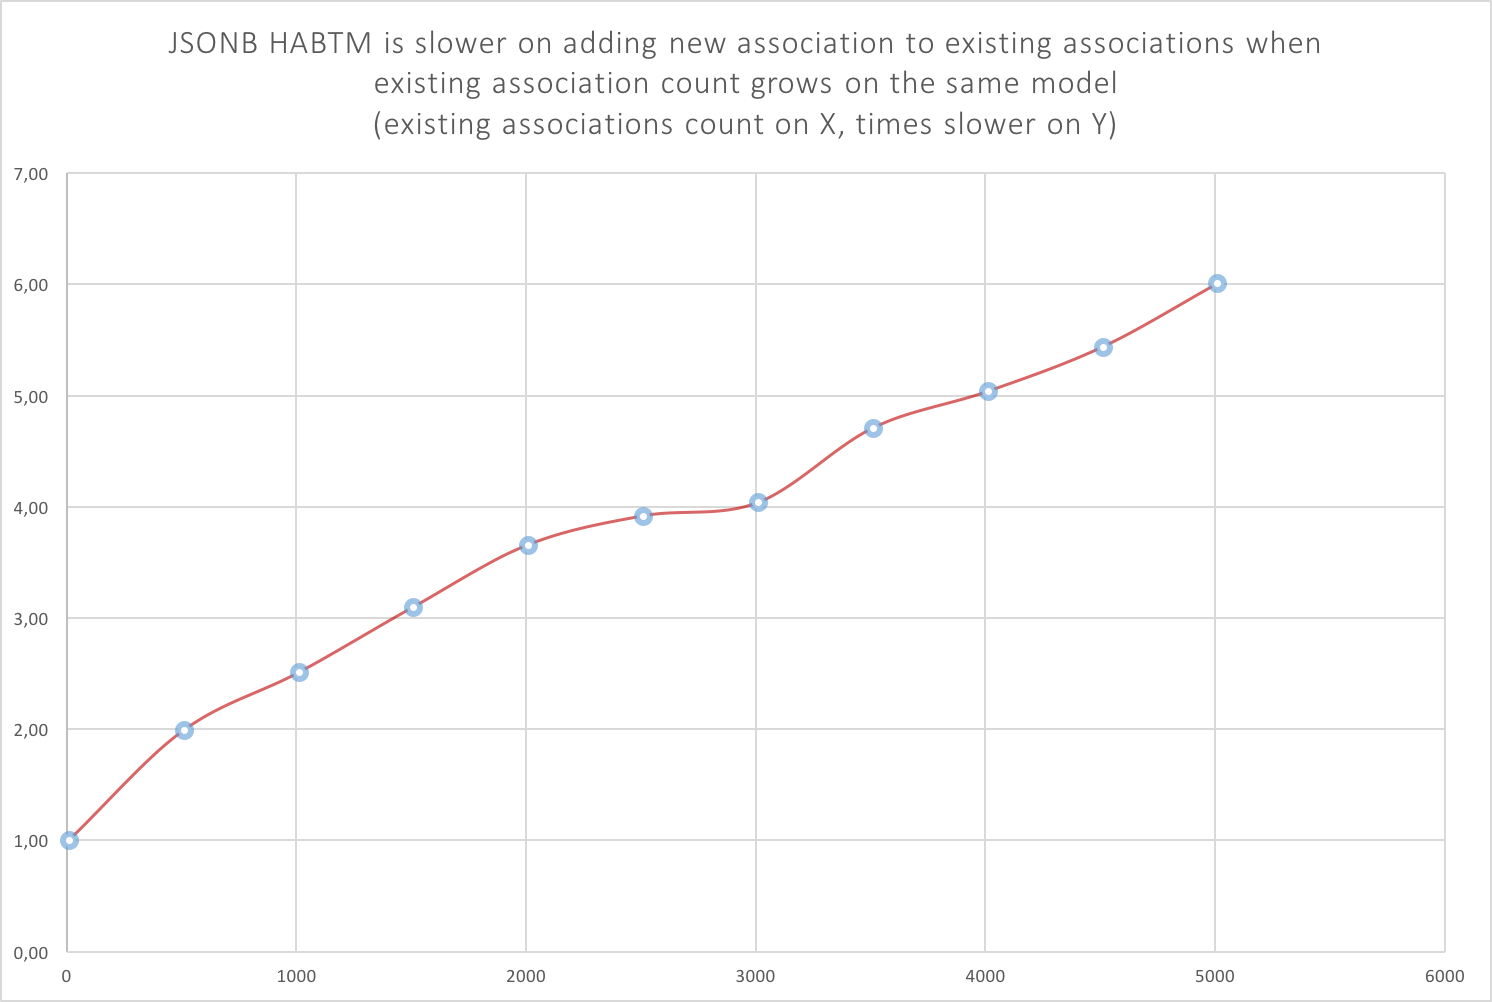
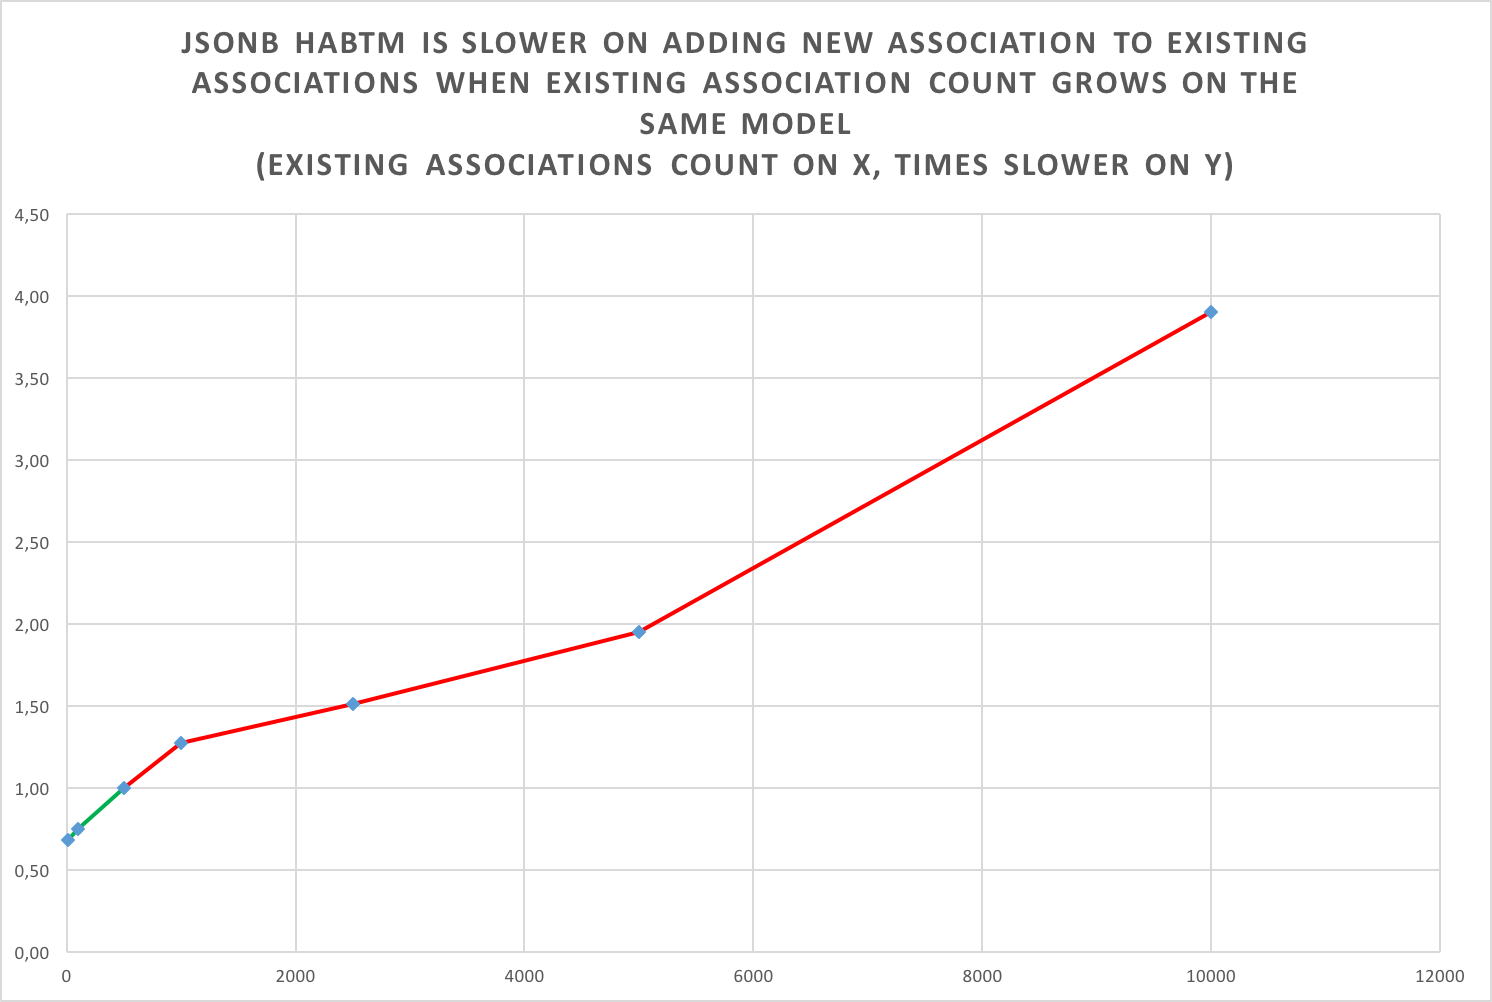
Speed-up adding new models to has-many association scope

diff --git a/lib/activerecord/jsonb/associations/has_many_association.rb b/lib/activerecord/jsonb/associations/has_many_association.rb
@@ -58,19 +58,25 @@ module ActiveRecord
         end
         # rubocop:enable Metrics/AbcSize
 
-        # rubocop:disable Metrics/AbcSize
+        # rubocop:disable Metrics/MethodLength, Metrics/AbcSize
         def insert_record(record, validate = true, raise = false)
-          super.tap do
+          super.tap do |super_result|
             next unless options.key?(:store)
+            next unless super_result
 
             key = "#{record.model_name.singular}_ids"
-            store = owner[options[:store]] || {}
-            store[key] ||= []
-            store[key] << record.id
-            owner.update_column(options[:store], store)
+            jsonb_column = options[:store]
+
+            owner.class.where(
+              owner.class.primary_key => owner[owner.class.primary_key]
+            ).update_all(%(
+              #{jsonb_column} = jsonb_set(#{jsonb_column}, '{#{key}}',
+              coalesce(#{jsonb_column}->'#{key}', '[]'::jsonb) ||
+              '[#{record[klass.primary_key]}]'::jsonb)
+            ))
           end
         end
-        # rubocop:enable Metrics/AbcSize
+        # rubocop:enable Metrics/MethodLength, Metrics/AbcSize
 
         def delete_records(records, method)
           return super unless options.key?(:store)

diff --git a/README.md b/README.md
@@ -59,11 +59,9 @@ end
 
 #### Performance
 
-In general you are safe to use JSONB HABTM for models that won't have many associations on both sides.
+Compared to regular associations, fetching models associated via JSONB column has no drops in performance.
 
-If you plan to have associations where one side has many records on the other side (more then ~500), adding new records to existing associations scope will be slower then with traditional approach.
-
-Below you can see benchmark results for adding new associations to the association scope:
+Adding new connections is slightly faster with JSONB, for scopes up to 500 records connected to another record (total count of records in the table does not matter that much. If you have more then ~500 records connected to one record on average, and you want to add new records to the scope, JSONB associations will be slower then traditional:
 
 <img src="https://github.com/lebedev-yury/activerecord-jsonb-associations/blob/master/doc/images/adding-associations.png?raw=true | width=500" alt="JSONB HAMTB is slower on adding associations" width="600">
 
